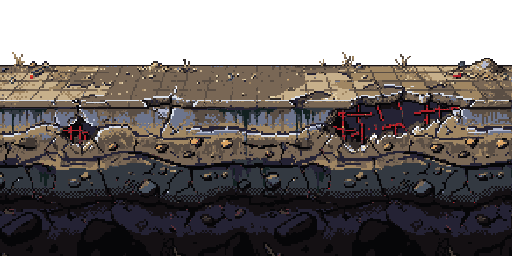
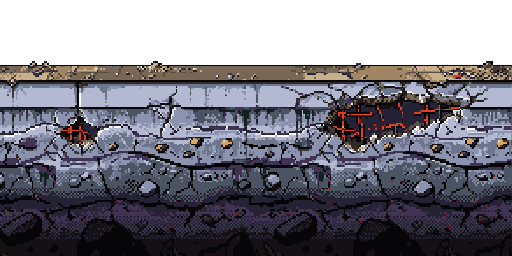
Kachel-Sets: Beton streng orthogonal, sanfte Übergänge per Dithering, neues Set Höhle (#156)
Claude-Session: https://claude.ai/code/session_01DEYRZukiH9mG7cqd3GbqwQ

diff --git a/tools/terrain_polish.py b/tools/terrain_polish.py
@@ -117,7 +117,23 @@ def tile2d(src_name, size=T, roll=(0, 0)):
     return im.crop((0, 0, size, size))
 
 
-def from_strip(src_name, out_name, prefix, fill_a, fill_b, shift_b=3, n=7, rust=False, deep=None, deep_a=False):
+BAYER = np.array([[0, 8, 2, 10], [12, 4, 14, 6], [3, 11, 1, 9], [15, 7, 13, 5]]) / 16.0
+
+
+def dither_into(a, b, start=0.25, end=1.0):
+    """#156 (Daniel 21.11.2026: „sanftere Übergänge zwischen den Schichten“): picture a fades into b from top to bottom with an
+    ordered (Bayer) dither, pixel-art style: rows above `start` stay a, from `end` on everything is b"""
+    A_, B_ = np.array(a.convert('RGBA')), np.array(b.convert('RGBA'))
+    H, W = A_.shape[:2]
+    out = A_.copy()
+    for y in range(H):
+        w = min(1.0, max(0.0, (y / (H - 1) - start) / max(1e-6, end - start)))
+        for x in range(W):
+            if BAYER[y % 4, x % 4] < w: out[y, x] = B_[y, x]
+    return Image.fromarray(out)
+
+
+def from_strip(src_name, out_name, prefix, fill_a, fill_b, shift_b=3, n=7, rust=False, deep=None, deep_a=False, soft=False, soft_top=False):
     """#138 (Daniel 21.11.2026: „Beides mit PixelLab neu malen“): a PixelLab cross-section strip (512 x 256, walking line at y=64) cut into
     a Kachel-Set: seamless at n tiles, tops = rows 48-128, fill a / fill b = 64 rows from fill_a / fill_b (fill b shifted by shift_b tiles)"""
     src = fill_holes(Image.open(A / 'tiles/source' / src_name))
@@ -125,13 +141,20 @@ def from_strip(src_name, out_name, prefix, fill_a, fill_b, shift_b=3, n=7, rust=
     sheet = Image.new('RGBA', (n * T, 3 * (T + OVER)))
     for i in range(n):
         x = i * T
-        sheet.paste(strip.crop((x, SURF - OVER, x + T, SURF + T)), (x, 0))
+        top = strip.crop((x, SURF - OVER, x + T, SURF + T))
+        if soft_top and deep:   # #156 the slab under the floor melts into the wall texture in its lower half
+            tex0 = tile2d(deep, roll=[(0, 0), (40, 24), (20, 56)][i % 3])
+            body = dither_into(top.crop((0, OVER, T, OVER + T)), tex0, 0.45, 1.0)
+            top.paste(body, (0, OVER))
+        sheet.paste(top, (x, 0))
         sheet.paste(strip.crop((x, fill_a, x + T, fill_a + T)), (x, (T + OVER) + OVER))
         x2 = (x + shift_b * T) % (n * T)
         if deep:   # #144 the rock below: one texture that repeats without seams in both directions (concrete: 3 panels mixed)
             tex = tile2d(deep, roll=[(0, 0), (40, 24), (20, 56)][i % 3] if deep_a else (0, 0))
             sheet.paste(tex, (x, 2 * (T + OVER) + OVER))
             if deep_a: sheet.paste(tex, (x, (T + OVER) + OVER))
+            elif soft:   # #156 the layer under the crust melts into the rock below instead of ending in a hard line
+                sheet.paste(dither_into(strip.crop((x, fill_a, x + T, fill_a + T)), tex, 0.2, 0.95), (x, (T + OVER) + OVER))
         else:
             sheet.paste(strip.crop((x2, fill_b, x2 + T, fill_b + T)), (x, 2 * (T + OVER) + OVER))
     if rust:   # bright red rebar read as glitches: rust brown from the same palette (AAP-64)
@@ -149,8 +172,9 @@ if __name__ == '__main__':
     if 'px' in sys.argv:
         # #144 (Daniel 21.11.2026: „Die Schichten machen so keinen Sinn“): surface from the strip, right under it the strip's first layer
         # once (fill a, desert), deeper the seamless rock (fill b); concrete walls are the seamless concrete all the way
-        print('desert_px', from_strip('desert_px_source.png', 'desert_px.png', 'desert_px', 128, 192, 0, deep='sandstone_tex_source.png'))
-        print('concrete_px', from_strip('concrete_px_source.png', 'concrete_px.png', 'concrete_px', 102, 102, 3, rust=True, deep='concrete_tex_source.png', deep_a=True))
+        print('desert_px', from_strip('desert_px_source.png', 'desert_px.png', 'desert_px', 128, 192, 0, deep='sandstone_tex_source.png', soft=True))
+        print('concrete_px', from_strip('concrete_px_source.png', 'concrete_px.png', 'concrete_px', 102, 102, 3, rust=True, deep='concrete_tex_source.png', deep_a=True, soft_top=True))
+        print('cave_px', from_strip('cave_px_source.png', 'cave_px.png', 'cave_px', 128, 192, 0, deep='cave_tex_source.png', soft=True))
         sys.exit(0)
     print('desert_fine', desert())
     print('concrete_worn', concrete())

diff --git a/docs/assets.md b/docs/assets.md
@@ -92,6 +92,9 @@ Alle Assets entstehen im Projekt selbst, mit KI oder Code. Nichts Externes. Jede
 | `assets/leyla/grenade/throw_arm.png` (+ `arm_grip_source.png`, `arm_open_source.png`) | Leylas Wurfarm: Bild 1 mit Granate, Bild 2 offene Hand, waagerecht, Schulter = Ankerpunkt (`leyla_throw_arm`, #140) | KI (PixelLab, create_image_pro, Leyla als Vorlage), zugeschnitten und ausgerichtet mit Code | 21.11.2026 |
 | `assets/raider/<klasse>_idle.png`, `<klasse>_patrol.png` (+ `_hands`), `source/pose_<klasse>_relaxed.png` | Raider entspannt: Stehen und Gehen mit gesenkter Waffe je Waffenklasse (#148) | KI (PixelLab: Edit Pro Flash, animate_character v3), zerlegt mit `tools/raider_strips.py` | 21.11.2026 |
 | `assets/props/vault/vault_closed.png`, `vault_open.png` (+ `candidate_a/c.png`) | Tresor V-09 streng von vorn: Rundtür mit radialen Riegeln um einen Cyan-Kern; geknackt mit offener Tür, Gold, Münzen, Datenchips (#153) | KI (PixelLab: create_image_pro 192 × 256 AAP-64, Edit Pro Flash für geknackt) | 21.11.2026 |
+| `assets/tiles/source/cave_px_source.png`, `cave_tex_source.png`, `assets/tiles/tileset00/cave_px.png` | Kachel-Set Höhle: Kies, Moos, Pilze oben, dunkler Kalkstein mit Adern (#156) | KI (PixelLab, create_image_pro), zugeschnitten mit Code | 21.11.2026 |
+| `assets/tiles/source/concrete_px_source.png` (neu) | Beton-Querschnitt streng von der Seite (dünne Linoleum-Kante statt Bodenfläche von oben, #156) | KI (PixelLab, create_image_pro) | 21.11.2026 |
+| `assets/tiles/scaffold/scaffold_source.png` | Gerüst-Segment (Stützen draußen, #156) | KI (PixelLab, create_image_pro 64 × 128) | 21.11.2026 |
 | `assets/tiles/source/sandstone_tex_source.png`, `concrete_tex_source.png` | Nahtlose Gesteins-Texturen für die Füllung tief im Gestein (#144), in `desert_px.png`/`concrete_px.png` eingebaut | KI (PixelLab, create_image_pro 96 × 96), nahtlos gemacht mit Code | 21.11.2026 |
 | `assets/tiles/source/desert_px_source.png`, `assets/tiles/tileset00/desert_px.png` | Kachel-Set Wüste neu gemalt: Sandkruste, geschichteter Sandstein, dunkler Fels (`tileset_desert_px`, #138) | KI (PixelLab, create_image_pro 512 × 256, AAP-64, Stil Camp-Boden), zugeschnitten mit Code (`tools/terrain_polish.py px`) | 21.11.2026 |
 | `assets/tiles/source/concrete_px_source.png`, `assets/tiles/tileset00/concrete_px.png` | Kachel-Set Beton neu gemalt: abgewetztes Linoleum, Betonplatte mit Rissen und Rost-Bewehrung (`tileset_concrete_px`, #138) | KI (PixelLab, create_image_pro 512 × 256, AAP-64), zugeschnitten mit Code, Rot zu Rost umgefärbt | 21.11.2026 |

diff --git a/docs/features/tiles.md b/docs/features/tiles.md
@@ -10,3 +10,4 @@ Kachel-Assets, TileSet00 / Kachel-Sets (Oberfläche, Füllung, Clutter, Decals, 
 - **Erde unter der Oberfläche** (#132): Spiel › Nebel › Erde unter der Oberfläche / Erdschichten / Steine / Erde bis: unter dem Boden des Eingangs (`fog.js`, `this.earth`) malt die Dunkelheit Schichten, die nach unten in die Nebelfarbe übergehen; Spiel › Kamera › Blick nach oben im Run (150 px) und Himmel über dem Level (320 px).
 - **Neu gemalt mit PixelLab** (#138, Daniel 21.11.2026: „Beides mit PixelLab neu malen“): je ein Querschnitt-Streifen 512 × 256 (Laufkante bei y = 64, AAP-64, Stil Camp-Boden; 25 Generierungen je Set), zugeschnitten mit `python3 tools/terrain_polish.py px` (nahtlos auf 7 Kacheln, Oberfläche = Zeilen 48–128, Füllung a/b): **Wüste** `tileset_desert_px` (Sandkruste, geschichteter Sandstein, darunter dunkler Fels; Füllung a und b liegen übereinander, gestapelt ergeben sie Schichten), **Beton** `tileset_concrete_px` (abgewetztes Linoleum, Betonplatte mit Rissen und Bewehrung, Rot zu Rost umgefärbt). Die Sets `desert` und `concrete` zeigen darauf; die alten Raster (`desert_fine`, `concrete_worn`) bleiben als Alternative.
 - **Schichten nach Tiefe** (#144, Daniel 21.11.2026: „Die Schichten machen so keinen Sinn, wie du sie einsetzt“): Kachel-Sets › **Schichtung** `fillMode` = `rows` (zeilenweise im Wechsel, alte Sets, Ziegel) oder `depth` (direkt unter der Oberfläche Füllung, ab `fill2Depth` (2) Kacheln tiefer Füllung darunter), `fillOf` in `art.js`. Wüste: Füllung = erste Schicht unter der Kruste aus dem Querschnitt, Füllung darunter = **nahtlose Sandstein-Textur** (PixelLab 96 × 96, in beiden Richtungen per Min-Cut auf 64 zugeschnitten, `tile2d` in `tools/terrain_polish.py`); Beton: beide Füllungen aus der nahtlosen Beton-Textur, drei verschobene Varianten (Fugen wie Schalungsplatten). Vorher stapelten sich Ausschnitte des Querschnitts und zeigten alle 64 px dieselbe Schichtkante.
+- **Orthogonal und sanft** (#156, Daniel 21.11.2026: „Die Perspektive ist nicht orthogonal genug … außerdem brauchen die Tilesets sanftere Übergänge zwischen den Schichten“): Beton neu gemalt als reiner Querschnitt (dünne Linoleum-Kante statt einer von oben sichtbaren Bodenfläche); Übergänge per Bayer-Dithering (`dither_into` in `tools/terrain_polish.py`): Wüste und Höhle lassen die erste Schicht unter der Kruste in das nahtlose Gestein zerfließen, Beton die Deckenplatte in die Wand-Textur. Neues Set **Höhle** (`cave`, Schichtung nach Tiefe).
